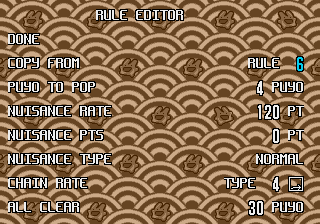
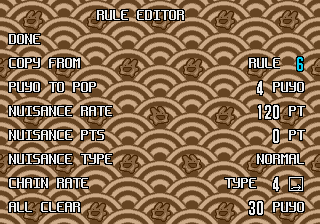
Link messages and MD Rule Edit: full text outlines
Two outlined letters do not fit one 16x16 glyph, so the first letter
of a word lost its left outline. Draw whole lines (each letter 1 px
into its cell, as on Saturn) and cut them into glyphs: the arcade uses
up to 64 glyphs of high byte 0x84, the MD editor adds high byte 0x83
glyphs for its non-item strings. The link messages now start at column
4 as the Japanese instead of centred. Screenshots retaken.

diff --git a/tools/linkmsg.py b/tools/linkmsg.py
@@ -5,106 +5,116 @@
 A string is a VRAM offset word (from the plane at 0xc000), then glyph bytes ("80 hh" sets
 the high byte of the tile words, 0x80 at the start of each line), then 0xfe (another line
 follows, word aligned) or 0xff (the end); an offset word 0xffff is followed by a long
-pointer to where the string goes on.
+pointer to where the string goes on. A glyph byte g < 0x80 is drawn as the tiles from
+high << 8 | (4g & 0xff) (64 glyphs per high byte); 0x81-0xfd draw a blank cell.
 
-The glyphs (stream 0x8cb5e, 32 glyphs, tiles 0x400 on with high byte 0x84) are redrawn as
-pairs of 8x16 letters, white (f) outlined in 1, and each original string is pointed at an
-English one written in free space."""
+The glyphs (stream 0x8cb5e, 32 glyphs at tile 0x400, high byte 0x84) are redrawn from the
+English lines (line_glyphs), as many as the 64 of high byte 0x84 (tiles 0x480-0x4ff hold only
+play tiles left over on that screen, as 0x400-0x47f did), and each original string is
+pointed at an English one written in free space."""
 import struct
-import font
+import font, labels
 
 GLYPHS = 0x8cb5e
 HIGH = 0x84
 
 NEW = "NEW CHALLENGER!"
 CANT = "CAN'T JOIN THE OTHER ONE"
-# original string: [(row, text, half a glyph of space first)]; each line centred on the
-# 40-column screen (the originals all started at column 4), but NO / YES, which stay at
-# column 20 beside the two cabinets
+# original string: [(row, text)]; each line starts at column 4 as the originals do, but
+# NO / YES, which stay at column 20 beside the two cabinets
 COLUMN = {"NO": 20, "YES": 20}
 STRINGS = {
-    0x19dc8: [(4, NEW, 0)],
-    0x19dd4: [(4, NEW, 0), (10, CANT, 0)],
-    0x19de0: [(10, CANT, 0)],
-    0x19df6: [(6, "JOINING IN!", 0)],
-    0x19e00: [(10, "JOIN THE OTHER ONE?", 0)],
-    0x19e14: [(10, "JOIN THE OTHER ONE TOO?", 0), (4, NEW, 0)],
-    0x19e30: [(14, "NO", 0), (18, "YES", 0)],       # written in place: see apply
-    0x1b274: [(6, "LINK DOWN!", 1), (10, "CALL THE STAFF", 0)],
+    0x19dc8: [(4, NEW)],
+    0x19dd4: [(4, NEW), (10, CANT)],
+    0x19de0: [(10, CANT)],
+    0x19df6: [(6, "JOINING IN!")],
+    0x19e00: [(10, "JOIN THE OTHER ONE?")],
+    0x19e14: [(10, "JOIN THE OTHER ONE TOO?"), (4, NEW)],
+    0x19e30: [(14, "NO"), (18, "YES")],       # written in place: see apply
+    0x1b274: [(6, "LINK DOWN!"), (10, "CALL THE STAFF")],
 }
 # The choice under the cursor is drawn again in red (0x19cf8) from the original records,
 # 0x19e30 for NO and 0x19e38 for YES: offset word, 80 84 skipped, glyphs to fe/ff. NO / YES
-# are written there in place, each 8 bytes; NO ends with 80 84 before fe, so that its
-# record (one glyph shorter than いいえ) ends where YES's starts
+# are written there in place, each 8 bytes (NO padded with 80 84 before fe or a 0 after it,
+# as the records are word aligned), so that NO's record ends where YES's starts
 IN_PLACE = {0x19e30: 0x19e38}
 
 
-def offset(row, text, shift):
-    """VRAM offset of a line (plane 64 cells wide): centred, in whole cells"""
-    width = 2 * len(pairs(text, shift))
-    col = COLUMN.get(text, (40 - width) // 2)
-    return row * 0x80 + col * 2
+def offset(row, text):
+    """VRAM offset of a line (plane 64 cells wide)"""
+    return row * 0x80 + COLUMN.get(text, 4) * 2
 
 
-def pairs(text, shift):
-    t = ' ' * shift + text
-    if len(t) % 2:
-        t += ' '
-    return [t[i:i + 2] for i in range(0, len(t), 2)]
-
-
-def glyph_pixels(pair, glyphs):
-    """16 x 16: the two letters in f, outlined in 1"""
-    img = [[0] * 16 for _ in range(16)]
-    for k, ch in enumerate(pair):
+def line_glyphs(text, glyphs):
+    """16x16 glyphs covering text in f outlined in 1, each letter 1 px into its cell so its
+    left outline is in its own cell and its right one in the next (a line ending on a letter
+    gets one more cell); two outlined letters do not fit one glyph on their own"""
+    cells = len(text) + (text[-1:] != ' ')
+    w = 8 * (cells + cells % 2)
+    img = [[0] * w for _ in range(16)]
+    for k, ch in enumerate(text):
         for y, row in enumerate(glyphs[ord(ch)]):
             for x in range(8):
                 if row >> (7 - x) & 1:
-                    img[y][8 * k + x] = 0xf
-    out = [r[:] for r in img]
-    for y in range(16):
-        for x in range(16):
-            if img[y][x] == 0 and any(0 <= y + dy < 16 and 0 <= x + dx < 16 and img[y + dy][x + dx]
-                                      for dy in (-1, 0, 1) for dx in (-1, 0, 1)):
-                out[y][x] = 1
-    return out
+                    img[y][8 * k + 1 + x] = 0xf
+    img = labels.ring(img, 1, {0xf})
+    return [[r[i:i + 16] for r in img] for i in range(0, w, 16)]
+
+
+def key(img):
+    """a glyph as a dict key; None when it is empty (drawn as the blank byte 0x81)"""
+    return tuple(map(tuple, img)) if any(map(any, img)) else None
+
+
+def encode(text, index, glyphs, high):
+    """glyph bytes of text after a line's 80 high; index: key -> (high byte, glyph), with
+    80 hh where the high byte changes"""
+    out = bytearray()
+    for img in line_glyphs(text, glyphs):
+        k = key(img)
+        if k is None:
+            out.append(0x81)
+            continue
+        h, g = index[k]
+        if h != high:
+            out += bytes([0x80, h])
+            high = h
+        out.append(g)
+    return bytes(out)
 
 
 def apply(prog, streams, at, end):
     """redraws the glyphs, writes the strings from at (below end); returns where they end"""
     glyphs = font.font()
-    index = {}
+    imgs = {}
     for lines in STRINGS.values():
-        for _, text, shift in lines:
-            for p in pairs(text, shift):
-                index.setdefault(p, len(index))
-    if len(index) > 32:
-        raise SystemExit('linkmsg: %d glyphs, there are 32' % len(index))
+        for _, text in lines:
+            for img in line_glyphs(text, glyphs):
+                if k := key(img):
+                    imgs.setdefault(k, img)
+    if len(imgs) > 64:
+        raise SystemExit('linkmsg: %d glyphs, there are 64' % len(imgs))
+    index = {k: (HIGH, g) for g, k in enumerate(imgs)}
     tiles = streams.get(GLYPHS)
-    for p, g in index.items():
-        img = glyph_pixels(p, glyphs)
-        for q, (dx, dy) in enumerate(((0, 0), (0, 8), (8, 0), (8, 8))):
-            data = bytearray(32)
-            for y in range(8):
-                for x in range(8):
-                    v = img[dy + y][dx + x]
-                    data[y * 4 + x // 2] |= v << (4 if x % 2 == 0 else 0)
-            tiles[(4 * g + q) * 32:(4 * g + q + 1) * 32] = data
+    tiles += bytes(max(0, 4 * len(imgs) * 32 - len(tiles)))
+    for g, img in enumerate(imgs.values()):
+        labels.put_tiles(tiles, img, labels.sprite_order(4 * g, 2, 2, 1))
+    enc = lambda text: encode(text, index, glyphs, HIGH)
     for orig, lines in STRINGS.items():
         data = bytearray()
-        for k, (row, text, shift) in enumerate(lines):
+        for k, (row, text) in enumerate(lines):
             if len(data) % 2:
                 data.append(0)
-            data += struct.pack('>H', offset(row, text, shift)) + bytes([0x80, HIGH])
-            data += bytes(index[p] for p in pairs(text, shift))
+            data += struct.pack('>H', offset(row, text)) + bytes([0x80, HIGH])
+            data += enc(text)
             data.append(0xff if k == len(lines) - 1 else 0xfe)
         if orig in IN_PLACE:
-            rows = [(row, text, shift) for row, text, shift in lines]
-            first = struct.pack('>H', offset(*rows[0])) + bytes([0x80, HIGH])
-            first += bytes(index[p] for p in pairs(*rows[0][1:]))
+            (row0, text0), (row1, text1) = lines
+            first = struct.pack('>H', offset(row0, text0)) + bytes([0x80, HIGH]) + enc(text0)
             first += bytes([0x80, HIGH]) * ((IN_PLACE[orig] - orig - len(first) - 1) // 2) + b'\xfe'
-            second = struct.pack('>H', offset(*rows[1])) + bytes([0x80, HIGH])
-            second += bytes(index[p] for p in pairs(*rows[1][1:])) + b'\xff'
+            first += b'\0' * (len(first) % 2)       # the next record is word aligned
+            second = struct.pack('>H', offset(row1, text1)) + bytes([0x80, HIGH])
+            second += enc(text1) + b'\xff'
             second += b'\0' * (len(second) % 2)
             if len(first) != IN_PLACE[orig] - orig or len(second) > 8:
                 raise SystemExit('linkmsg: NO / YES do not fit their records')

diff --git a/tools/md_screens.py b/tools/md_screens.py
@@ -36,7 +36,8 @@ MOUTH_LABELS = (
     ("OPTIONS",),
 )
 
-# Rule Edit (0x091461 glyphs 0x00..0x3b, preserving curve icons 0x3c..0x3f and digits 256..277)
+# Rule Edit (0x091461: glyphs 0x00..0x3b of high byte 0x82 and 0x06..0x3f of 0x83, preserving curve
+# icons 0x3c..0x3f and digits 256..277)
 RULE_EDIT_MENU_AT = 0x0177b2
 RULE_EDIT_MENU_PTRS = 0x0177a6
 RULE_EDIT_MENU = (
@@ -69,7 +70,7 @@ RULE_EDIT_CREATE = (
 # Rule Editor digit & curve VRAM coordinates (patch 16-bit immediates in 0x0178ba..0x017960
 # so every value + unit right-aligns cleanly to column 37).
 RULE_EDIT_VRAM = (
-    (0x0178bc, 0xc3c6),   # r7  copy rule digit 1..6 -> col 37 (after "RULE" at 32..35)
+    (0x0178bc, 0xc3c6),   # r7  copy rule digit 1..6 -> col 37 (after "RULE" at 31..34)
     (0x0178e4, 0xc53c),   # r10 puyo to pop -> cols 30..32 (space col 33, "PUYO" at 34..37)
     (0x0178f4, 0xc6c0),   # r13 nuisance rate -> cols 32..34 (space col 35, "PT" at 36..37)
     (0x017904, 0xc840),   # r16 nuisance pts -> cols 32..34 (space col 35, "PT" at 36..37)
@@ -78,7 +79,7 @@ RULE_EDIT_VRAM = (
     (0x017960, 0xcb48),   # r22 chain curve icon -> cols 36..37
 )
 
-RULE_EDIT_HARD_AT = 0x017980    # 3 fixed 8-byte records: 80 82 <4 glyph bytes> ff 00
+RULE_EDIT_HARD_AT = 0x017980    # 3 fixed 8-byte records: 80 82 <5 glyph bytes> ff
 RULE_EDIT_HARD = ("  NORMAL", "    HARD", "HARD CAP")
 
 
@@ -296,29 +297,36 @@ def apply_special_rules(streams):
 
 
 def apply_rule_edit(prog, streams, at, end):
-    """Rule Edit menu + editor + nuisance hardness values (glyph stream 0x091461).
-    Uses glyph slots 0x00..0x3b (60 slots) as 8x16 letter pairs via linkmsg helpers,
-    preserving chain-curve icons 0x3c..0x3f and narrow digits at tiles 256..277."""
+    """Rule Edit menu + editor + nuisance hardness values (glyph stream 0x091461, VRAM tile
+    0x200), drawn as linkmsg.line_glyphs. Glyphs 0x00..0x3b of high byte 0x82 (0x3c..0x3f are
+    the chain-curve icons) serve the items, which the cursor redraws in red skipping their
+    80 82, and the fixed hardness records; the rest also take high byte 0x83 glyphs from 0x06
+    (tiles 0x318..0x3ff: 0x300..0x315 are the narrow digits, the rest unused on these screens)."""
     glyphs = font.font()
-    index = {}
-    texts = [(t, sh) for g in (RULE_EDIT_MENU, RULE_EDIT_CREATE) for _, _, t, sh, _ in g] + [(t, 0) for t in RULE_EDIT_HARD]
-    for txt, sh in texts:
-        for p in linkmsg.pairs(txt, sh):
-            if p != '  ':
-                index.setdefault(p, len(index))
-    if len(index) > 0x3c:
-        raise SystemExit('rule_edit: %d glyph pairs, max 60 (0x00..0x3b)' % len(index))
+    rows = [(' ' * sh + t, item) for g in (RULE_EDIT_MENU, RULE_EDIT_CREATE) for _, _, t, sh, item in g]
+    imgs = {}
+    for txt, first in [(t, True) for t in RULE_EDIT_HARD] + sorted(rows, key=lambda r: not r[1]):
+        for img in linkmsg.line_glyphs(txt, glyphs):
+            if k := linkmsg.key(img):
+                imgs.setdefault(k, (img, first))
+    slots = [(0x82, g) for g in range(0x3c)] + [(0x83, g) for g in range(0x06, 0x40)]
+    firsts = sum(first for _, first in imgs.values())
+    if len(imgs) > len(slots) or firsts > 0x3c:
+        raise SystemExit('rule_edit: %d glyphs (%d for items and hardness), max 118 (60)' % (len(imgs), firsts))
+    index = dict(zip(imgs, slots))
 
+    tile = lambda h, g: 256 * (h - 0x82) + 4 * g        # in the stream
     tiles = streams.get(0x091461)
-    for p, g in index.items():
-        labels.put_tiles(tiles, linkmsg.glyph_pixels(p, glyphs), labels.sprite_order(4 * g, 2, 2, 1))
+    tiles += bytes(max(0, 32 * (max(tile(*s) for s in index.values()) + 4) - len(tiles)))
+    for k, s in index.items():
+        labels.put_tiles(tiles, imgs[k][0], labels.sprite_order(tile(*s), 2, 2, 1))
     blank = [[0] * 8 for _ in range(8)]
     for g in range(len(index), 0x3c):
         for q in range(4):
             gfx.tile_put(tiles, 4 * g + q, blank)
 
-    def encode_pairs(txt, sh):
-        return bytes(0x81 if p == '  ' else index[p] for p in linkmsg.pairs(txt, sh))
+    def encode(txt, sh):
+        return linkmsg.encode(' ' * sh + txt, index, glyphs, 0x82)
 
     def write_screen(orig_at, ptr_table, rows, at):
         assert at % 2 == 0
@@ -331,7 +339,7 @@ def apply_rule_edit(prog, streams, at, end):
             if is_item:
                 ptrs.append(start + len(data))
             voff = row * 0x80 + col * 2
-            data += struct.pack('>H', voff) + b'\x80\x82' + encode_pairs(txt, sh)
+            data += struct.pack('>H', voff) + b'\x80\x82' + encode(txt, sh)
             data.append(0xff if k == len(rows) - 1 else 0xfe)
         if len(data) % 2:
             data.append(0)
@@ -348,7 +356,7 @@ def apply_rule_edit(prog, streams, at, end):
 
     # 3 fixed 8-byte nuisance hardness records at 0x017980..0x017997
     for k, txt in enumerate(RULE_EDIT_HARD):
-        rec = b'\x80\x82' + encode_pairs(txt, 0) + b'\xff\x00'
+        rec = b'\x80\x82' + encode(txt, 0) + b'\xff'      # the 5th glyph: the outline right of the text
         assert len(rec) == 8, 'hardness record %r must be 8 bytes, got %d' % (txt, len(rec))
         off = RULE_EDIT_HARD_AT + 8 * k
         prog[off:off + 8] = rec

diff --git a/tools/test_build_md.py b/tools/test_build_md.py
@@ -22,7 +22,7 @@ if not os.path.exists(ROM):
     raise SystemExit('put %s in the repo root to run this test' % make_puyopuy2e_md.ORIG_NAME)
 orig = make_puyopuy2e_md.read_rom(ROM)
 
-EXPECTED = {'original': 0x0b49566c, 'no-red-puyos': 0x4be972d1, 'with-red-puyos': 0xefa29866}
+EXPECTED = {'original': 0x7ba1b329, 'no-red-puyos': 0x2854fece, 'with-red-puyos': 0x5b68a1cf}
 for mode in logo.MODES:
     out = bytes(md_build.build(orig, mode))
     assert len(out) == len(orig)

diff --git a/make_puyopuy2e.py b/make_puyopuy2e.py
@@ -13,9 +13,9 @@ import romset, build, logo
 OUT_NAMES = ('pp2e-17241.ic32', 'pp2e-17240.ic31')
 # expected (even, odd) program CRCs for each --logo mode
 EXPECTED = {
-    'no-red-puyos':   (0x3661b608, 0xc2edf254),
-    'with-red-puyos': (0x0d07efe9, 0xe7f5f2de),
-    'original':       (0x9c546529, 0x13f76e95),
+    'no-red-puyos':   (0x18181319, 0xbc513537),
+    'with-red-puyos': (0xb017273f, 0xa250d10c),
+    'original':       (0x2241d6e1, 0xcecf7e06),
 }
 
 

diff --git a/README.md b/README.md
@@ -77,7 +77,7 @@ Hey dude! Help me out for a couple of :beers: or a :coffee:!<br/>
 | ばたんきゅ～ over a knocked-out player's field, big and in the small fields of the score panel | K.O. |
 | Rule select screen | CHOOSE A RULE! and both rule lines |
 | Level select: 激甘 ... 激辛 | EXTRA MILD, MILD, MEDIUM, HOT, EXTRA HOT |
-| Join-in and link messages, はい / いいえ | NEW CHALLENGER!, YES / NO (also when highlighted), ...; centred on screen |
+| Join-in and link messages, はい / いいえ | NEW CHALLENGER!, YES / NO (also when highlighted), ...; starting at column 4 as the Japanese |
 | Continue screen, win screen (やった) | CONTINUE?, YAY! |
 | Act Against AIDS slogan 勇気と愛気 | COURAGE AND LOVE |
 | Service menu romaji, ending record (MAX RENSA) | English |
@@ -102,7 +102,7 @@ Known limits:
 
 ## Screenshots
 
-Japanese arcade original on the left, `puyopuy2e` on the right (MAME; the linked-cabinet ones from two mame2003-plus instances joined by the test link, see Known limits).
+Japanese arcade original on the left, `puyopuy2e` on the right (MAME; the linked-cabinet join prompt from two MAME instances joined by the [puyo2link](https://github.com/tbender4/puyo2link) plugin, the other linked-cabinet ones from two mame2003-plus instances joined by the test link, see Known limits).
 
 | | Original | English |
 |---|---|---|
@@ -189,12 +189,12 @@ Output, the files of `puyopuy2e.zip` (by `--logo` mode):
 
 | `--logo` | File | Size | CRC32 | SHA1 | From |
 |---|---|---|---|---|---|
-| `no-red-puyos` (default) | pp2e-17241.ic32 | 524288 | 3661b608 | e799cf36fd023b9d2013466aec54ca8bd56f7b92 | epr-17241.ic32, changed |
-| `no-red-puyos` (default) | pp2e-17240.ic31 | 524288 | c2edf254 | 3fb1cf6b9b12263a210b925f34c1404df2c1e099 | epr-17240.ic31, changed |
-| `with-red-puyos` | pp2e-17241.ic32 | 524288 | 0d07efe9 | d1b5c318309a7da24b48fd3020cb2e2c65b52a85 | epr-17241.ic32, changed |
-| `with-red-puyos` | pp2e-17240.ic31 | 524288 | e7f5f2de | 1b868f493c34de1bd22bee90143116c12a8768c7 | epr-17240.ic31, changed |
-| `original` | pp2e-17241.ic32 | 524288 | 9c546529 | ff0cfa2e0bad7cdbd80db96074eae53aca65a498 | epr-17241.ic32, changed |
-| `original` | pp2e-17240.ic31 | 524288 | 13f76e95 | 56d8e070684084def73ce898c1e003abc6e6b4be | epr-17240.ic31, changed |
+| `no-red-puyos` (default) | pp2e-17241.ic32 | 524288 | 18181319 | 570d9afd404833eef00262f7b21ed56911d37101 | epr-17241.ic32, changed |
+| `no-red-puyos` (default) | pp2e-17240.ic31 | 524288 | bc513537 | 5d44c6c6d9e12486feb4a5e76456601045780ecc | epr-17240.ic31, changed |
+| `with-red-puyos` | pp2e-17241.ic32 | 524288 | b017273f | 05052339db1b57ac2a680cf1fafc7c1fb601a7b6 | epr-17241.ic32, changed |
+| `with-red-puyos` | pp2e-17240.ic31 | 524288 | a250d10c | 89d2633b5d2b07c20b33aa4e64406402c821e28d | epr-17240.ic31, changed |
+| `original` | pp2e-17241.ic32 | 524288 | 2241d6e1 | 7d8d25b689aff82355cf5d5acca103acd5444bef | epr-17241.ic32, changed |
+| `original` | pp2e-17240.ic31 | 524288 | cecf7e06 | 04f9d92866b009c439d861c06bf7d0d109a3c7bc | epr-17240.ic31, changed |
 | all | epr-17239.ic4 | 524288 | 020ff6ef | 6095b8277b47a6fd7a9721f15a70ae5bf6be9b1a | copied |
 
 The two 16-bit EPROM checksums at `0x1f8`/`0x1fa` are recalculated for each build so the

diff --git a/docs/notes.md b/docs/notes.md
@@ -92,8 +92,8 @@ sprites made of 10 pieces of three 4x7 letters.
 The join-in messages are drawn by `0x15be`: a VRAM offset word, then one byte per 16x16
 glyph (tile `4 x byte`, column by column), `80 hh` to set the high byte of the tile
 words, `fe` for another line, `ff` for the end; an offset `ffff` is followed by a long
-pointer. The 32 glyphs became pairs of 8x16 letters; the strings are new and the old
-ones point at them.
+pointer. The glyphs are redrawn from the outlined English lines, cut into 16x16 glyphs
+(up to the 64 of high byte 0x84); the strings are new and the old ones point at them.
 
 ## Service menu
 
